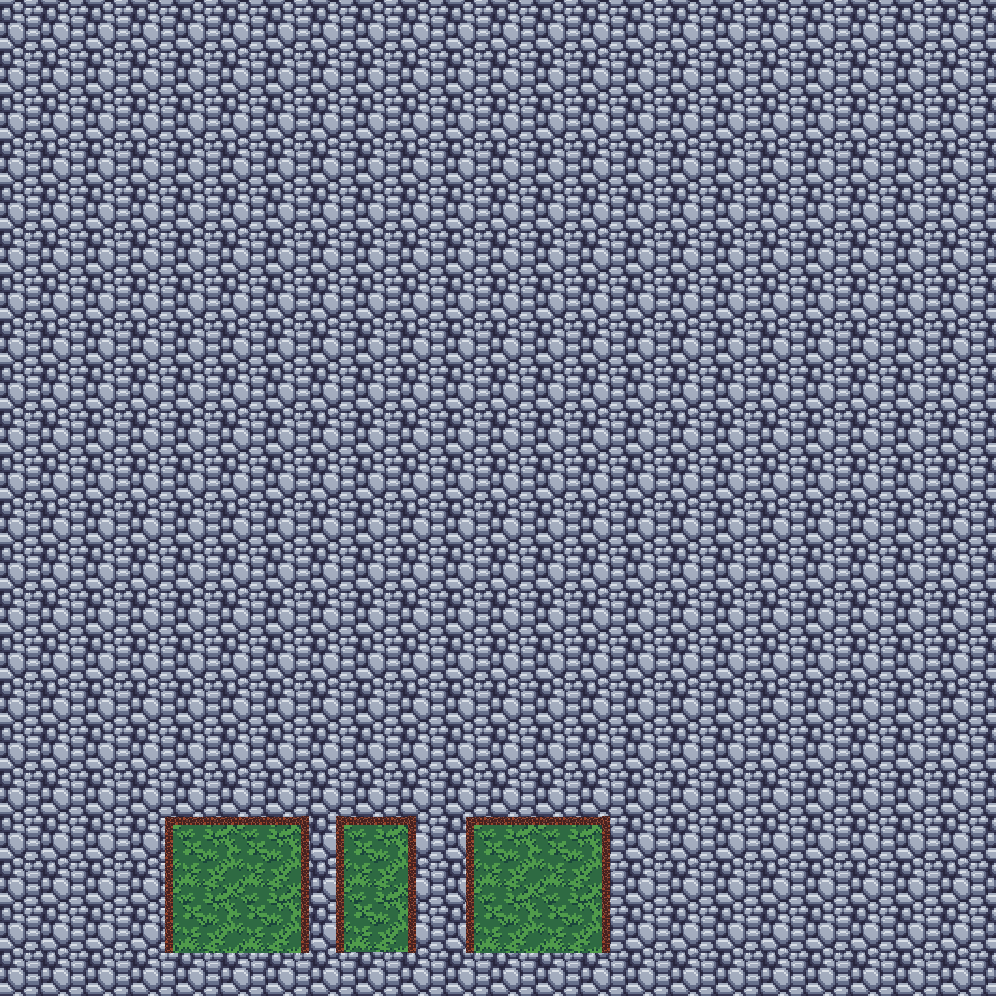
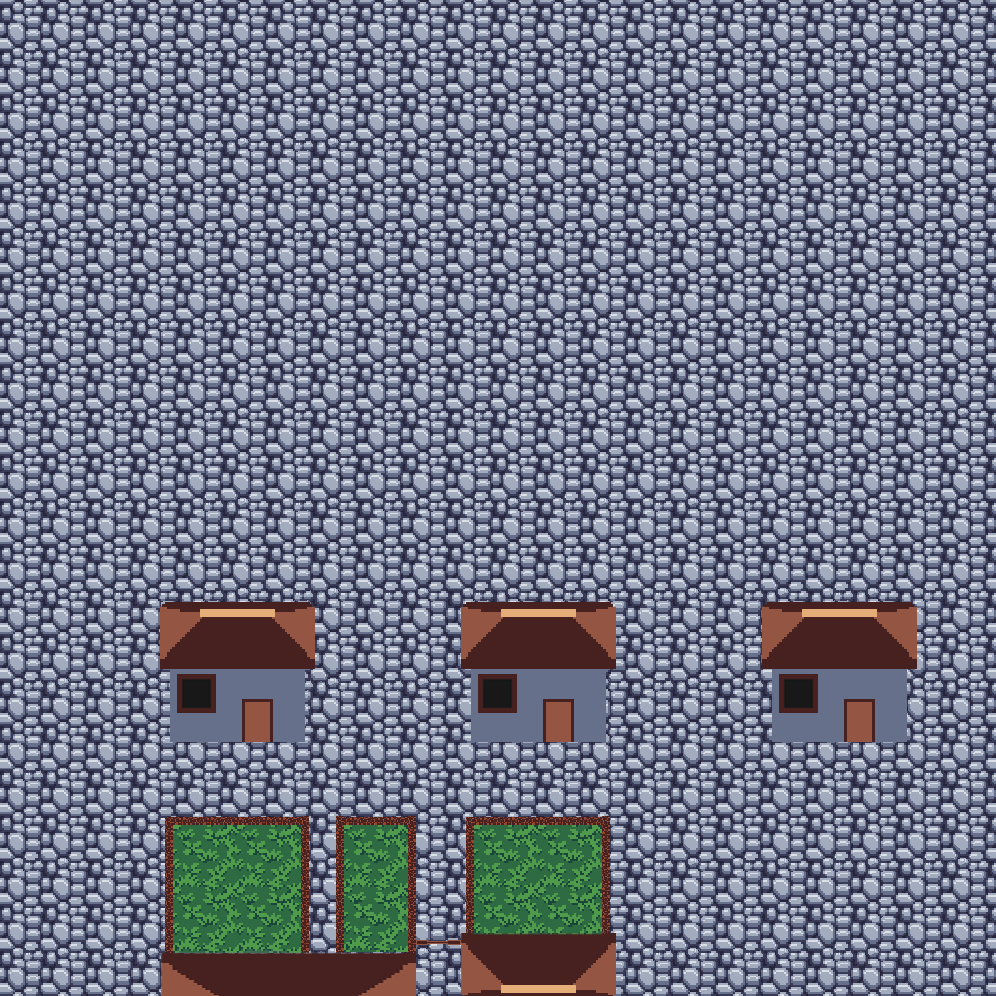
Added houses and dog

diff --git a/Projects/Project RPG/js/outside.js b/Projects/Project RPG/js/outside.js
@@ -1,28 +1,38 @@
-let buildings
+let buildings;
+let entities;
 
 class Outside{
-  constructor(bg_outside, house1, house2, house3){
+  constructor(bg_outside, house1, house2, house3, house4, dog, evildog){
     this.bg = bg_outside
 
-    house1.sprite = createSprite(280, 360);
+    house1.sprite = createSprite(280, 420);
     house1.sprite.addAnimation("house1", house1);
+    house1.sprite.setCollider("rectangle", 0, 0, 155, 144);
     house1.sprite.depth = 1;
-    house1.sprite.changeAnimation("house1");
     house1.sprite.addToGroup(buildings)
 
-    house2.sprite = createSprite(-14, 360);
+    house2.sprite = createSprite(-14, 420);
     house2.sprite.addAnimation("house2", house2);
-    house1.sprite.changeAnimation("house2");
-    //house2.sprite.setCollider("rectangle", 0, 0, 50, 30);
+    house2.sprite.setCollider("rectangle", 0, 0, 155, 144);
     house2.sprite.addToGroup(buildings)
     house2.sprite.depth = 1;
 
-    house3.sprite = createSprite(574, 360);
+    house3.sprite = createSprite(-14, 200);
     house3.sprite.addAnimation("house3", house3);
+    house3.sprite.setCollider("rectangle", 0, 0, 155, 144);
     house3.sprite.depth = 1;
-    house3.sprite.changeAnimation("house3");
     house3.sprite.addToGroup(buildings)
 
+    house4.sprite = createSprite(280, 200);
+    house4.sprite.addAnimation("house4", house4);
+    house4.sprite.setCollider("rectangle", 0, 0, 155, 144);
+    house4.sprite.addToGroup(buildings)
+    house4.sprite.depth = 1;
+
+    dog.sprite = createSprite(280, 600)
+    dog.sprite.addAnimation("dog", dog);
+    dog.sprite.addAnimation("evildog", evildog)
+    dog.sprite.addToGroup(entities)
 
 
     player.sprite.position.x = 65
@@ -38,6 +48,14 @@ class Outside{
 
   }
 
+  doggo(){
+    if (dog.sprite.overlap(player.sprite) && keyCode === SHIFT){
+      dog.sprite.changeAnimation("evildog")
+      player.sprite.position.x = player.sprite.position.x - 10
+    }
+  }
+
+
   camera(){
     camera.zoom = 1;
     camera.position.x = player.sprite.position.x;
@@ -49,5 +67,11 @@ class Outside{
     if (player.sprite.position.y < -100) player.sprite.position.y = -100;
     if (player.sprite.position.x > 650) player.sprite.position.x = 650;
     if (player.sprite.position.y > 660) player.sprite.position.y = 660;
+
+    player.sprite.collide(house1.sprite);
+    player.sprite.collide(house2.sprite);
+    player.sprite.collide(house3.sprite);
+    player.sprite.collide(house4.sprite);
+    player.sprite.collide(dog.sprite);
   }
 }

diff --git a/Projects/Project RPG/js/scriptOOP.js b/Projects/Project RPG/js/scriptOOP.js
@@ -50,8 +50,9 @@ function preload() {
   house1 = loadAnimation("assets/images/exterior/house1.png");
   house2 = loadAnimation("assets/images/exterior/house2.png");
   house3 = loadAnimation("assets/images/exterior/house3.png");
-
-
+  house4 = loadAnimation("assets/images/exterior/house2.png");
+  dog = loadAnimation("assets/images/exterior/dog_sprite1.png", "assets/images/exterior/dog_sprite2.png" );
+  evildog = loadImage("assets/images/exterior/evildog_sprite1.png")
 }
 
 function setup() {
@@ -63,7 +64,7 @@ function setup() {
 
   bedroom = new Bedroom(bed, bg_bedroom, ting);
   hall = new Hall(bg_hall, mainDoor);
-  outside = new Outside(bg_outside, house1, house2, house3);
+  outside = new Outside(bg_outside, house1, house2, house3, house4, dog, evildog);
 
   phone = new Phone(phoneScreen, selfieIndoor);
 }
@@ -117,6 +118,7 @@ function draw() {
    if (scene === 'bedroom'){
    bedroom.keyPressed()//Interacts with bed
   }
+  outside.doggo()
  }
 
 
